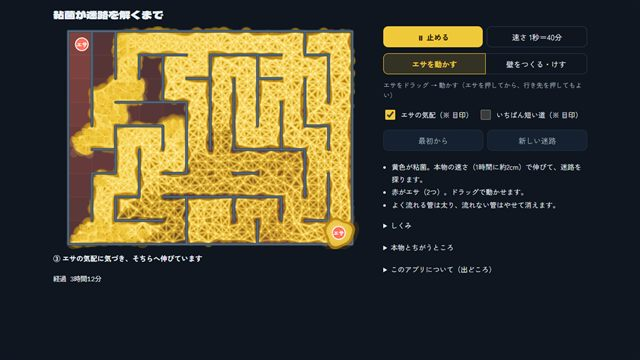
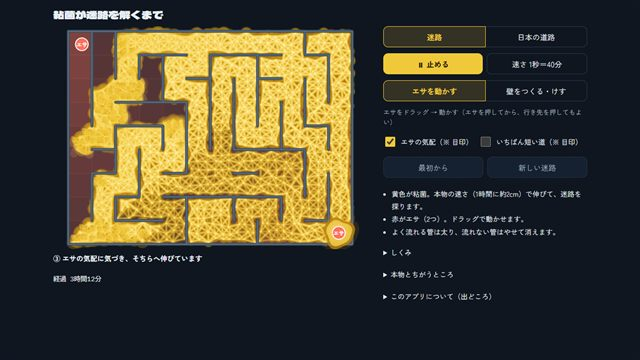
v012-japan 粘菌が迷路を解くまで: 地図の切りかえ（迷路／日本の道路）。Natural Earth（パブリックドメイン）から日本の道路の地図を作る道具とデータを足した

Changed region(s): [[0.5938, 0.0611, 0.9062, 0.7028], [0.5938, 0.7333, 0.7812, 0.8556]]

diff --git a/slime-maze/js/ui.js b/slime-maze/js/ui.js
@@ -19,7 +19,7 @@ const UI = {
     if (s.blocked) phase = 'エサへの道が壁でふさがっています';
     else if (flowing) phase = settled ? '⑤ 落ち着きました（流れはつづきます）' : '④ エサからエサへ流れ、遠回りの管がやせていきます';
     else if (sense) phase = '③ エサの気配に気づき、そちらへ伸びています';
-    else if (s.growing) phase = onFood ? '① 伸びながら、使わない枝はやせていきます' : '① 伸びて、迷路を探っています';
+    else if (s.growing) phase = onFood ? '① 伸びながら、使わない枝はやせていきます' : '① 伸びて、まわりを探っています';
     else if (Model.volume(s) > 0.5) phase = '② 伸びる先がなくなり、体が集まっていきます';
     else phase = onFood ? '② エサの上で、かたまりになっています' : '② かたまりになって、とどまっています';
     let nums = '', good = '';
@@ -44,7 +44,7 @@ const UI = {
     $('bSpeed').setAttribute('aria-pressed', S.speedI > 0);
     for (const [id, md] of [['mFood', 'food'], ['mWall', 'wall']]) { $(id).classList.toggle('on', S.mode === md); $(id).setAttribute('aria-pressed', S.mode === md); }
     $('hint').textContent = S.mode === 'food'
-      ? 'エサをドラッグ → 動かす（エサを押してから、行き先を押してもよい）'
+      ? (S.mapKind === 'japan' ? 'エサ（赤）をドラッグ → 別の町へ動かす' : 'エサをドラッグ → 動かす（エサを押してから、行き先を押してもよい）')
       : 'マスのさかいめを押す → 壁ができる・消える';
   },
 
@@ -53,7 +53,7 @@ const UI = {
     const L = S.L, gr = S.s.g; if (!L) return null;
     const [mx, my] = Draw.toMM(L, x, y), b = gr.bounds;
     if (mx < b.x0 || my < b.y0 || mx > b.x1 || my > b.y1) return null;
-    const c = Graph.nearest(gr, mx, my, gr.unit * 0.8);
+    const c = Graph.nearest(gr, mx, my, Math.max(gr.unit * 0.8, 22 / L.sc));   // 指でも押せるように、画面で 22px 以内
     return c < 0 ? null : { c, mx, my };
   },
   // いちばん近いマスのさかいめ（迷路のときだけ。内側の辺だけ）
@@ -68,6 +68,18 @@ const UI = {
     cand.sort((a, b) => a[0] - b[0]);
     return cand.length ? cand[0][1] : -1;
   },
+
+  // 地図を切りかえたとき: 迷路だけの操作（壁・新しい迷路）は日本の道路ではかくす。絵の縦横の比を地図に合わせる
+  setMap(kind) {
+    S.mapKind = kind;
+    for (const [id, k] of [['mapMaze', 'maze'], ['mapJapan', 'japan']]) { $(id).classList.toggle('on', kind === k); $(id).setAttribute('aria-pressed', kind === k); }
+    $('mWall').hidden = kind !== 'maze'; $('bNew').hidden = kind !== 'maze';
+    if (kind !== 'maze') S.mode = 'food';
+    const b = S.s ? S.world.g.bounds : S.world.g.bounds;
+    $('view').style.aspectRatio = `${(b.x1 - b.x0).toFixed(1)} / ${(b.y1 - b.y0).toFixed(1)}`;
+    UI._last = '';
+  },
+  loading(on) { $('phase').textContent = on ? '地図を読みこんでいます…' : ''; },
 
   toggleWall(me) {
     const s = S.s, gr = s.g, m = gr.maze;
@@ -93,6 +105,8 @@ const UI = {
     $('mWall').onclick = () => { S.mode = 'wall'; S.ui.sel = -1; UI.status(); draw(); };
     $('bRestart').onclick = () => restart();
     $('bNew').onclick = () => newMaze(S.seed + 1000 + Math.floor(Math.random() * 100000));
+    $('mapMaze').onclick = () => { if (S.mapKind !== 'maze') newMaze(S.seed); };
+    $('mapJapan').onclick = () => { if (S.mapKind !== 'japan') newJapan(); };
     $('cShort').onchange = e => { S.ui.showShortest = e.target.checked; draw(); };
     $('cChem').onchange = e => { S.ui.showChem = e.target.checked; draw(); };
 

diff --git a/slime-maze/index.html b/slime-maze/index.html
@@ -24,6 +24,10 @@
 
   <section id="panel">
     <div class="grp">
+      <div class="row seg" role="group" aria-label="地図">
+        <button id="mapMaze" class="tog">迷路</button>
+        <button id="mapJapan" class="tog">日本の道路</button>
+      </div>
       <div class="row">
         <button id="bRun" class="primary"></button>
         <button id="bSpeed" class="tog" aria-pressed="false"></button>
@@ -65,7 +69,7 @@
         <ul>
           <li><b>演出</b>: エサの物質は、本物の100倍の速さで広げています（本物はとてもおそい）。往復流は1.5秒ごと（本物は約2分）。通路ごとの伸びる速さのばらつき、先端の膜、管のうねりも見た目のためです。</li>
           <li><b>仮定</b>（本当の値が分かっていないもの）: 1マス 5mm／伸びる速さ 2cm/時（研究は「1時間に数センチ」）／いちばん速い先端は平均の3倍まで／気づく濃さはエサの所の1%、濃いほうへ1.5倍・うすいほうへ0.5倍／物質はエサから4cmほどで薄くなる／粘液の跡は消えず、跡のある所へは0.2倍の速さ／管の式の時間の単位は1時間／半径がもとの約3割になった管は消える。</li>
-          <li><b>簡単にしたところ</b>: 管の網は、1マスを 3×3 に分けた細かい網の線から選ばれます（本物はもっと細かい）。体の量は全体で一定（実際は、エサを食べて増える）。実験では迷路のあちこちにかけらを置きましたが、ここではまん中の1つから。物質はブドウ糖を代表にしています。</li>
+          <li><b>簡単にしたところ</b>: 管の網は、迷路では1マスを 3×3 に分けた細かい網の線から、日本では主な道路の線から選ばれます（本物はもっと細かい）。日本の地図は 1mm を 5km として、寒天の上にのせた大きさで計算しています（東京〜大阪は約 10cm）。体の量は全体で一定（実際は、エサを食べて増える）。実験では迷路のあちこちにかけらを置きましたが、ここではまん中の1つから。物質はブドウ糖を代表にしています。</li>
           <li>これはモデルの計算で、粘菌を測った値ではありません。</li>
         </ul>
       </details>
@@ -81,6 +85,7 @@
           <li>Almeida R. F. F. (2021) Formation and Optimisation of Vein Networks in Physarum. 修士論文（<a href="https://arxiv.org/abs/2305.12244" target="_blank" rel="noopener">arXiv</a>）— 先端を流れの出口にする考え方・体の量の数え方</li>
           <li>Bonifaci V., Mehlhorn K., Varma G. (2012) Physarum can compute shortest paths（<a href="https://arxiv.org/abs/1106.0423" target="_blank" rel="noopener">arXiv</a>）— 最短の道が残ることの証明</li>
         </ul>
+        <p>日本の道路と陸の形: Made with Natural Earth（1:10m Roads・Land。パブリックドメイン。<a href="https://www.naturalearthdata.com/" target="_blank" rel="noopener">naturalearthdata.com</a>）。主な道路だけで、細い道は入っていません。</p>
         <p>フォント: Google Fonts（SIL Open Font License）</p>
       </details>
     </div>
@@ -88,8 +93,8 @@
 </div>
 
 <script src="js/maze.js?v=1"></script>
-<script src="js/graph.js?v=4"></script>
+<script src="js/graph.js?v=5"></script>
 <script src="js/model.js?v=20"></script>
-<script src="js/draw.js?v=18"></script>
-<script src="js/ui.js?v=14"></script>
-<script src="js/main.js?v=7"></script>
+<script src="js/draw.js?v=19"></script>
+<script src="js/ui.js?v=16"></script>
+<script src="js/main.js?v=9"></script>

diff --git a/slime-maze/launcher.html b/slime-maze/launcher.html
@@ -41,7 +41,7 @@ td a{color:var(--ink)}
   </section>
   <section>
     <h2>すべてのバックアップ</h2>
-    <table><tr><td>v011-fine-net</td><td><a href="index.html">細かい網の迷路・はじめのエサ2つ（最新版）</a></td><td>2026-11-22</td></tr><tr><td>v010-real-forage</td><td>先端の取りあい・体の量・消えない粘液の跡・文をしぼる（Git: d900bca）</td><td>2026-11-22</td></tr><tr><td>v009-lump</td><td>体のかたまりがその場に残る・物質は速く広がり少しずつ減る・エサは記号（Git: d7129eb）</td><td>2026-11-22</td></tr><tr><td>v008-forage</td><td>物質の拡散と粘液の跡・点と線の地図・リアルな見た目（Git: 4086d84）</td><td>2026-11-22</td></tr><tr><td>v007-regrow</td><td>細い管は消え、エサを置くと体から伸びなおす（Git: 6d4a4c9）</td><td>2026-11-22</td></tr><tr><td>v006-one-food-flow</td><td>エサ1つでも管が変わる（Git: 66eb310）</td><td>2026-11-22</td></tr><tr><td>v005-real-time</td><td>エサ1つから・止まらない・本物の時間で伸びる（Git: a2343dc）</td><td>2026-11-22</td></tr><tr><td>v004-one-piece</td><td>まん中の1つのかけらから広がる（Git: 62cea1f）</td><td>2026-11-22</td></tr><tr><td>v003-pieces</td><td>かけら6個から広がり、埋まってからエサ（Git: e40b787）</td><td>2026-11-22</td></tr><tr><td>v002-solver</td><td>段階A: 迷路と Physarum ソルバー（Git: dd3fb46）</td><td>2026-11-22</td></tr><tr><td>v001-start</td><td><a href="versions/v001-start/index.html">雛形（new-app.ps1）</a></td><td>2026-11-22</td></tr></table>
+    <table><tr><td>v012-japan</td><td><a href="index.html">地図の切りかえ（迷路／日本の道路）（最新版）</a></td><td>2026-11-22</td></tr><tr><td>v011-fine-net</td><td>細かい網の迷路・はじめのエサ2つ（Git: cc51446）</td><td>2026-11-22</td></tr><tr><td>v010-real-forage</td><td>先端の取りあい・体の量・消えない粘液の跡・文をしぼる（Git: d900bca）</td><td>2026-11-22</td></tr><tr><td>v009-lump</td><td>体のかたまりがその場に残る・物質は速く広がり少しずつ減る・エサは記号（Git: d7129eb）</td><td>2026-11-22</td></tr><tr><td>v008-forage</td><td>物質の拡散と粘液の跡・点と線の地図・リアルな見た目（Git: 4086d84）</td><td>2026-11-22</td></tr><tr><td>v007-regrow</td><td>細い管は消え、エサを置くと体から伸びなおす（Git: 6d4a4c9）</td><td>2026-11-22</td></tr><tr><td>v006-one-food-flow</td><td>エサ1つでも管が変わる（Git: 66eb310）</td><td>2026-11-22</td></tr><tr><td>v005-real-time</td><td>エサ1つから・止まらない・本物の時間で伸びる（Git: a2343dc）</td><td>2026-11-22</td></tr><tr><td>v004-one-piece</td><td>まん中の1つのかけらから広がる（Git: 62cea1f）</td><td>2026-11-22</td></tr><tr><td>v003-pieces</td><td>かけら6個から広がり、埋まってからエサ（Git: e40b787）</td><td>2026-11-22</td></tr><tr><td>v002-solver</td><td>段階A: 迷路と Physarum ソルバー（Git: dd3fb46）</td><td>2026-11-22</td></tr><tr><td>v001-start</td><td><a href="versions/v001-start/index.html">雛形（new-app.ps1）</a></td><td>2026-11-22</td></tr></table>
   </section>
 </main>
 </body>

diff --git a/slime-maze/js/main.js b/slime-maze/js/main.js
@@ -16,15 +16,33 @@ const S = {
   acc: 0, swapT: 0, L: null,
 };
 
-// 地図（いまは迷路。将来は日本の道路も同じ形の Graph で）。はじめのエサの点 foods0 と、かけらの点 start を持つ
+// 地図: 迷路か日本の道路。どちらも点と線の Graph で、はじめのエサの点 foods0 と、かけらの点 start を持つ
 function newMaze(seed) {
   S.seed = seed;
   const m = Maze.makeGood(W, H, seed);
   // 1マスを 3×3 の細かい網に（管が角の内側を近道したり、Y 字に分かれたりできる）
   const gr = Graph.fromMazeFine(m, CELL_MM, 3, seed);
-  S.world = { g: gr, foods0: [gr.cellCenter(0), gr.cellCenter(W * H - 1)], start: gr.cellCenter(Math.floor(H / 2) * W + Math.floor(W / 2)) };
-  S.s = Model.create(gr, S.world.foods0, seed);   // はじめのエサは2つ（迷路の入口と出口）
-  S.ui.ph = new Float64Array(gr.nE);
+  setWorld({ kind: 'maze', g: gr, foods0: [gr.cellCenter(0), gr.cellCenter(W * H - 1)], start: gr.cellCenter(Math.floor(H / 2) * W + Math.floor(W / 2)) });
+}
+// 日本の道路（Natural Earth。tools/build-japan.mjs で作った data/japan.json）。エサは東京と大阪、かけらは名古屋
+let japanData = null;
+async function newJapan() {
+  if (!japanData) {
+    UI.loading(true);
+    try { japanData = await (await fetch('data/japan.json?v=2')).json(); }
+    catch (e) { UI.loading(false); window.__slmaErr.push('地図を読めませんでした: ' + e.message); return; }
+    UI.loading(false);
+  }
+  const gr = Graph.fromData(japanData), c = gr.cities;
+  setWorld({ kind: 'japan', g: gr, foods0: [c['東京'], c['大阪']], start: c['名古屋'] });
+}
+function setWorld(w) {
+  S.world = w;
+  S.s = Model.create(w.g, w.foods0, S.seed);   // はじめのエサは2つ
+  S.ui.ph = new Float64Array(w.g.nE);
+  Draw._paths = null;
+  UI.setMap(w.kind);
+  resize();
   restart();
 }
 function restart() {

diff --git a/slime-maze/tools/verify-japan.js b/slime-maze/tools/verify-japan.js
@@ -1,0 +1,20 @@
+// 日本の道路の地図の確かめ（node で: node slime-maze/tools/verify-japan.js）
+//  data/japan.json を読み、東京・大阪にエサ、名古屋にかけら → 落ち着くまで進めて、管の長さがいちばん短い道の長さに近いか
+//  （細かい網と同じく、長さの近い道が残ることがあるので 15% 以内なら可）。いくつかの組でも見る
+'use strict';
+const fs = require('fs'), path = require('path'), vm = require('vm');
+const ctx = { Math, Float64Array, Int32Array, Uint8Array, console, Set, Array, Infinity, isFinite }; ctx.window = ctx; vm.createContext(ctx);
+for (const f of ['maze.js', 'graph.js', 'model.js']) vm.runInContext(fs.readFileSync(path.join(__dirname, '..', 'js', f), 'utf8'), ctx, { filename: f });
+const { Graph, Model } = ctx;
+const data = JSON.parse(fs.readFileSync(path.join(__dirname, '..', 'data', 'japan.json'), 'utf8'));
+let ng = 0;
+for (const [a, b, st] of [['東京', '大阪', '名古屋'], ['仙台', '広島', '大阪'], ['東京', '福岡', '広島']]) {
+  const g = Graph.fromData(data), c = g.cities, s = Model.create(g, [c[a], c[b]], 1);
+  Model.startGrowth(s, c[st]);
+  let n = 0; while (n++ < 12000 && !Model.settled(s)) Model.step(s);
+  const sp = Graph.shortest(g, c[a], c[b]), len = Model.tubeLength(s);
+  const good = Model.settled(s) && sp && len < 1.15 * sp.len;
+  if (!good) ng++;
+  console.log(`${good ? 'OK' : 'NG'} ${a}〜${b}（かけら ${st}）: 落ち着くまで ${s.t.toFixed(0)} 時間、管の長さ ${(len * g.kmPerMM).toFixed(0)} km、いちばん短い道 ${sp ? (sp.len * g.kmPerMM).toFixed(0) : '—'} km`);
+}
+process.exit(ng ? 1 : 0);

diff --git a/slime-maze/js/draw.js b/slime-maze/js/draw.js
@@ -66,10 +66,15 @@ const Draw = {
   frame(g2, w, h, s, ui) {
     const g = s.g, L = Draw.layout(g, w, h), C = Draw.C, cs = L.cs;
     const T = L.sc * (g.tubeMM || g.unit * 0.42);         // いちばん太い管の太さ（画面）
-    const F = L.sc * (g.cellMM || g.unit);                 // 記号の大きさのもと（迷路のマス）
+    const F = L.sc * (g.symbolMM || g.cellMM || g.unit);   // 記号の大きさのもと（迷路のマス・地図はきめた大きさ）
     g2.fillStyle = C.bg; g2.fillRect(0, 0, w, h);
     const b = g.bounds;
-    g2.fillStyle = C.floor; g2.fillRect(L.X(b.x0), L.Y(b.y0), (b.x1 - b.x0) * L.sc, (b.y1 - b.y0) * L.sc);
+    if (g.land) {   // 地図: 陸（寒天の色）と、粘菌が通れる道（うすい線）
+      g2.fillStyle = C.floor; g2.strokeStyle = 'rgba(120,145,170,0.35)'; g2.lineWidth = 1;
+      for (const poly of g.land) { g2.beginPath(); poly.forEach(([x, y], i) => i ? g2.lineTo(L.X(x), L.Y(y)) : g2.moveTo(L.X(x), L.Y(y))); g2.closePath(); g2.fill(); g2.stroke(); }
+      g2.strokeStyle = 'rgba(150,175,200,0.28)'; g2.lineWidth = Math.max(1, T * 0.5); g2.lineCap = 'round'; g2.lineJoin = 'round';
+      g2.beginPath(); for (let e = 0; e < g.nE; e++) if (g.open[e]) Draw.trace(g2, Draw.path(L, g, e), 0, 1); g2.stroke();
+    } else { g2.fillStyle = C.floor; g2.fillRect(L.X(b.x0), L.Y(b.y0), (b.x1 - b.x0) * L.sc, (b.y1 - b.y0) * L.sc); }
 
     // エサから広がる物質（※ 目印。色の濃さは対数。粘菌が気づく濃さより上は少し濃く）
     if (ui.showChem) {

diff --git a/slime-maze/js/graph.js b/slime-maze/js/graph.js
@@ -84,6 +84,18 @@ const Graph = {
       if (!ok1 || !ok2) g.open[e] = 0;
     }
   },
+  // 地図のデータ（tools/build-japan.mjs が作る data/japan.json）から Graph を作る
+  fromData(d) {
+    const N = d.N, nE = d.ea.length, adj = Array.from({ length: N }, () => []);
+    for (let e = 0; e < nE; e++) { adj[d.ea[e]].push(e); adj[d.eb[e]].push(e); }
+    const len = Float64Array.from(d.len), sorted = Array.from(len).sort((a, b) => a - b);
+    return {
+      N, nE, x: Float64Array.from(d.x), y: Float64Array.from(d.y), ea: Int32Array.from(d.ea), eb: Int32Array.from(d.eb), len,
+      open: new Uint8Array(nE).fill(1), adj, pts: d.pts.map(p => p || null),
+      wobble: false, maze: null, unit: sorted[sorted.length >> 1], widthMM: 2, tubeMM: 1.6, symbolMM: 14, scale: d.kmPerMM * 1000,
+      land: d.land, cities: d.cities, kmPerMM: d.kmPerMM, bounds: d.bounds,
+    };
+  },
   other(g, e, i) { return g.ea[e] === i ? g.eb[e] : g.ea[e]; },
 
   // a から b へのいちばん短い道（線の長さで。ダイクストラ法）。{ edges: 線の番号の列, len: 長さ mm }。届かなければ null

diff --git a/slime-maze/DEVNOTES.md b/slime-maze/DEVNOTES.md
@@ -1,8 +1,8 @@
 # 粘菌が迷路を解くまで 開発メモ
 
 ## 別セッションで続けるとき（まずここ）
-- いまの状態: v011-fine-net（段階A、動く試作）。保管庫（archive.html）に掲載。入口には載せない（RULES 8.1）。push はまだ。
-- 次にやること: 日本地図（Natural Earth の道路・陸地。パブリックドメイン。道路 50 MB をダウンロードしてよいか、ユーザーに確認中）→ 地図の切りかえ。落ち着くまでの時間（細かい網では 100 時間以上）をどうするか相談。動くサムネイル（make-motion-thumbs.ps1 -Apps slime-maze）はまだ撮っていない。
+- いまの状態: v012-japan（段階A、動く試作）。保管庫（archive.html）に掲載。入口には載せない（RULES 8.1）。push はまだ。
+- 次にやること: 落ち着くまでの時間（迷路で約 110 時間、日本で 50〜100 時間）をどうするか相談。日本の地図で、エサを3つ以上（Tero 2010 の決まり）にするか相談。動くサムネイル（make-motion-thumbs.ps1 -Apps slime-maze）はまだ撮っていない。
 - 読む順: PLAN.md → このファイルの「ファイル構成」「しくみ」→ 関係するファイルだけ。
 - 動かし方: サーバー apps（.claude/launch.json）で http://localhost:8765/slime-maze/ 。デバッグ用の窓口 `window.__slma`（`simRun(秒)` … 描かずに進める、`restart()`・`newMaze(種)`・`addFood(点)`、`S`、`Model`・`Maze`）、エラーは `window.__slmaErr`。
 - 区切りごとの手順: 「確認のしかた」と smoke.ps1 → 「状態」に1行 → launcher.html の表 → 公開前チェック → commit（節目の版だけ versions/ へコピーしてカードに。RULES 3章）。
@@ -21,6 +21,9 @@
 | js/main.js | 状態 `S`・時間の進め方・描画ループ・デバッグ窓口 | `newMaze`・`restart`・`changed`・`step`・`kick` |
 | tools/verify.js | モデルの確かめ（node。エサ2つ、40の迷路） | |
 | tools/verify-one.js | エサ1つから始めるときと、物質の拡散の確かめ（node） | |
+| tools/build-japan.mjs | Natural Earth から日本の道路の地図 data/japan.json を作る（node） | |
+| tools/verify-japan.js | 日本の道路の地図の確かめ（node） | |
+| data/japan.json | 日本の道路の地図（Graph の形） | |
 
 読み込み順: maze → graph → model → draw → ui → main（main の最後で `UI.init()`・`newMaze`）。
 
@@ -36,6 +39,12 @@
 - 点 972・線 3525。1回の計算は約 5〜7 ms（PC）。1秒＝40分 で 1秒に 13 回。
 - 迷路を解くまでの時間がのびた（エサ2つで始めて落ち着くまで中央 110 時間ほど、最大 130 時間）。長さの近い道どうしの決着がおそいため（Tero 2007 も「μ=1 では選ばれ方がおそい」）。管が消える・跡のある所へもどらない、のため、いちばん短い道が途中で消えて、少し長い道（+5〜13%）に落ち着くこともある（画面に「〜% 長い道も残っています」）。
 - はじめのエサは2つ（入口と出口）、かけらはまん中（2026-11-22 ユーザー「初期状態のエサを２つに」）。エサはドラッグで動かす（足すのはなし）。
+
+## 日本の道路の地図（v012、2026-11-22 ユーザー「マップの形状をこのタイミングで日本地図も選べるように」）
+- 元データ: Natural Earth 1:10m Roads・Land（パブリックドメイン、Made with Natural Earth）。`tools/raw/` に置く（Git に入れない。`.gitignore`）。取り方: `curl -L -o slime-maze/tools/raw/ne_10m_roads.geojson https://raw.githubusercontent.com/nvkelso/natural-earth-vector/master/geojson/ne_10m_roads.geojson`（約 50 MB）と `ne_10m_land.geojson`（約 10 MB）。2026-11-22 にユーザーの許可を得て取った。
+- `node slime-maze/tools/build-japan.mjs` → `data/japan.json`（約 95 KB。点 988・線 1106・道 約 17,000 km・島 138）。日本のあたりにすっぽり入る島を日本とし、その上の道路だけ。4 km の格子で点を合わせ、分かれ目のあいだを約 15 km ごとに区切り、10 km 未満の線は両はしをまとめる（短い線があると、100 倍にした物質の拡散を細かく分けて進めることになり重くなった）。1 mm = 5 km（東京〜大阪 約 10 cm）。都市（東京・大阪・名古屋・札幌・仙台・広島・福岡・鹿児島）はいちばん近い点。北海道は本州と道でつながっていない（Natural Earth の道路にない）。
+- `Graph.fromData`、`newJapan()`（fetch して1回だけ読む）、地図の切りかえボタン（`UI.setMap`。日本では壁・新しい迷路をかくす、絵の縦横比を地図に）。絵は陸（寒天の色）と通れる道（うすい線）。エサは東京・大阪、かけらは名古屋。
+- 確かめ: `node slime-maze/tools/verify-japan.js`（東京〜大阪 54 時間で 535/533 km、仙台〜広島 92 時間、東京〜福岡 105 時間。どれも最短の道とほぼ同じ）。
 
 ## しくみ
 - 迷路: 12×9 マス、1マス 5 mm（仮定）。深さ優先で掘ったあと、残った壁の 12% をぬいて道を何通りにも。左上と右下のいちばん短い道が1本だけの迷路を種を進めて探す（`makeGood`）。
@@ -94,3 +103,4 @@
 - 2026-11-22 v009-lump: 体のかたまりを点ごとに（エサを動かしてもその場に残る）、物質を100倍の演出＋少しずつ減る形に、エサを赤い丸の記号に、管の解き方のくり返しの上限を上げた。verify 40/40、verify-one NG なし。
 - 2026-11-22 v010-real-forage: 先端どうしの取りあい（流れこむ量で伸びる速さ）、体の量を保つ、粘液の跡は消えず跡のある所へは 0.2 倍（エサの上なら出ない）、跡を画面に描く、物質が減る長さ 40 mm。画面の文をしぼってたたむ形に（使い方3行＋しくみ・本物とちがうところ・出どころ）、段階の文を短く。確かめの計算をアプリと同じ流れ（エサ1つで始め、伸びきったら2つ目）に。verify 40/40、verify-one NG なし。
 - 2026-11-22 v011-fine-net: 迷路を細かい網（1マス 3×3、ななめもつなぐ、点を少しずらす）に。はじめのエサを2つに。エサ2つのあいだを流れているときも未探索の通路へは伸びる。落ち着いた判定をゆるめ、少し長い道に落ち着いたらそう出す。物質の色はマスごとにならす。verify 12/12（細かい網、時間がかかるので 12 迷路）、verify-one NG なし。
+- 2026-11-22 v012-japan: 地図の切りかえ（迷路／日本の道路）。Natural Earth から日本の道路の地図を作る道具と data/japan.json。出どころ・README に Natural Earth。verify 12/12（迷路）、verify-japan 3/3。

diff --git a/README.md b/README.md
@@ -93,4 +93,4 @@ git config core.quotepath false
 - **プログラムのコード**: MIT（`LICENSE`）
 - **アプリの中身**（名前・文章・キャラクターや模型やステージのデザイン・画像・音・動画・企画書などの文書。コードの中に書かれていても）: CC BY-NC 4.0（`LICENSE-CONTENT`）。作者を表示すれば共有・改変してよく、授業や家庭での学習にも自由に使えます。営利目的には使えません。
 - 2026-10-13 より前のコミットは、すべて MIT で公開していました。
-- ほかの人のもの: 読み込むライブラリ（Three.js・mp4-muxer など MIT、CesiumJS など Apache-2.0）と Google Fonts の書体（SIL Open Font License）は、それぞれのライセンスに従います。よく使うライブラリは LICENSE といっしょに `lib/` に置いています（一覧は `lib/README.md`）。地図・写真・標高などのデータは各提供元の条件に従います（`god-view/DEVNOTES.md` の「データ源」）。`god-view/data/stars.js` は HYG Database から作ったもので CC BY-SA 4.0 です。`tiny-earth/data/etopo1deg.bin` は NOAA NCEI の ETOPO1（アメリカでは著作権なし・パブリックドメイン。出典: NOAA NCEI）を 1°ごとに間引いたものです。`tree-of-life/data/backbone.js` は Catalogue of Life（CC BY 4.0。Bánki ほか, doi:10.48580/dgz5n）・Open Tree of Life（CC0）・Wikidata（CC0）から作ったもので、それぞれの条件に従います（アプリの中で COL と Wikidata の API も読みます）。詳細に出す写真は Wikimedia Commons からその場で読むもので、作者と条件（CC0・パブリックドメイン・CC BY・CC BY-SA）を図ごとに出しています（このリポジトリのライセンスには入りません）。樹形図で動くシルエットは PhyloPic からその場で読むもので（NC の条件のものはのぞく）、作者と条件を詳細に出しています。`wave-growth/js/shaders.js` と `wave-growth/js/ocean.js` の海の描き方の一部（白波の泡・照り返し・空の反射・AgX）と `wave-growth/tools/fft-bench.html` の WebGPU の FFT は、web-ocean（https://github.com/Noniv/web-ocean 、Copyright (c) 2026 Maksymilian Dendura、MIT）を書きかえたもので、ライセンスの全文は `wave-growth/LICENSE-web-ocean.txt` です。`jungle-sound/audio/` の音と `jungle-sound/data/` の数・図は、Hopping, Kahl & Klinck (2022)「A collection of fully-annotated soundscape recordings from the Southwestern Amazon Basin」（Zenodo, doi:10.5281/zenodo.7079124、CC BY 4.0）の録音を切り出し・重ね・圧縮して作ったもので、CC BY 4.0 に従います（このリポジトリのライセンスには入りません）。`jungle-sound/img/` の鳥の写真は Wikimedia Commons のもの（CC BY・CC BY-SA）を縮小したもので、作者と条件は `jungle-sound/data/species.json` とアプリの画面に出しています（それぞれのライセンスに従います。CC BY-SA の写真を縮小したものは CC BY-SA のままで、このリポジトリの CC BY-NC 4.0 には入りません）。
+- ほかの人のもの: 読み込むライブラリ（Three.js・mp4-muxer など MIT、CesiumJS など Apache-2.0）と Google Fonts の書体（SIL Open Font License）は、それぞれのライセンスに従います。よく使うライブラリは LICENSE といっしょに `lib/` に置いています（一覧は `lib/README.md`）。地図・写真・標高などのデータは各提供元の条件に従います（`god-view/DEVNOTES.md` の「データ源」）。`god-view/data/stars.js` は HYG Database から作ったもので CC BY-SA 4.0 です。`slime-maze/data/japan.json` は Natural Earth（1:10m の Roads と Land。パブリックドメイン。Made with Natural Earth）から `slime-maze/tools/build-japan.mjs` で日本の部分を切り出して作ったものです。`tiny-earth/data/etopo1deg.bin` は NOAA NCEI の ETOPO1（アメリカでは著作権なし・パブリックドメイン。出典: NOAA NCEI）を 1°ごとに間引いたものです。`tree-of-life/data/backbone.js` は Catalogue of Life（CC BY 4.0。Bánki ほか, doi:10.48580/dgz5n）・Open Tree of Life（CC0）・Wikidata（CC0）から作ったもので、それぞれの条件に従います（アプリの中で COL と Wikidata の API も読みます）。詳細に出す写真は Wikimedia Commons からその場で読むもので、作者と条件（CC0・パブリックドメイン・CC BY・CC BY-SA）を図ごとに出しています（このリポジトリのライセンスには入りません）。樹形図で動くシルエットは PhyloPic からその場で読むもので（NC の条件のものはのぞく）、作者と条件を詳細に出しています。`wave-growth/js/shaders.js` と `wave-growth/js/ocean.js` の海の描き方の一部（白波の泡・照り返し・空の反射・AgX）と `wave-growth/tools/fft-bench.html` の WebGPU の FFT は、web-ocean（https://github.com/Noniv/web-ocean 、Copyright (c) 2026 Maksymilian Dendura、MIT）を書きかえたもので、ライセンスの全文は `wave-growth/LICENSE-web-ocean.txt` です。`jungle-sound/audio/` の音と `jungle-sound/data/` の数・図は、Hopping, Kahl & Klinck (2022)「A collection of fully-annotated soundscape recordings from the Southwestern Amazon Basin」（Zenodo, doi:10.5281/zenodo.7079124、CC BY 4.0）の録音を切り出し・重ね・圧縮して作ったもので、CC BY 4.0 に従います（このリポジトリのライセンスには入りません）。`jungle-sound/img/` の鳥の写真は Wikimedia Commons のもの（CC BY・CC BY-SA）を縮小したもので、作者と条件は `jungle-sound/data/species.json` とアプリの画面に出しています（それぞれのライセンスに従います。CC BY-SA の写真を縮小したものは CC BY-SA のままで、このリポジトリの CC BY-NC 4.0 には入りません）。
